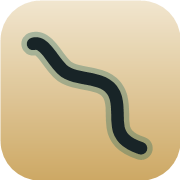
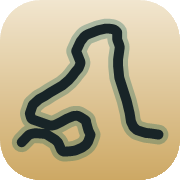
v0.15: Social-Preview-Setup mit echter Worblaufen→Felsenau-Mäander-Identität
- icon.svg + apple-touch-icon.png aus den 79 Original-Vertices der Strecke
  Worblaufen→Felsenaubrücke skaliert (Halbinsel-Loop + zweiter Curl + Tail
  erkennbar) — keine generische Schlaufe mehr.
- og-image.png (1200×630): warmes Paper, "Los la. Langsam. Langsam." links,
  Mäander rechts mit türkisem Schatten.
- Open-Graph + Twitter-Card-Meta für Signal/WhatsApp/iMessage/Discord-Previews.
- canonical + og:url auf https://aarezyt.ch/, og:locale=de_CH.
- Aare-Guru-App-Identifier auf ch.aarezyt.web, Version 0.15.
- apple-mobile-web-app-title und Page-Title auf AareZyt umgestellt.
- H1 "Los la. Langsam. Langsam.", Note "Zyt zum los la." und Footer
  "Bärner Langsamkeit: Feature, nid bug." unverändert.

diff --git a/index.html b/index.html
@@ -3,15 +3,34 @@
 <head>
 <meta charset="UTF-8" />
 <meta name="viewport" content="width=device-width, initial-scale=1.0" />
-<title>Aare Böötle</title>
+<title>AareZyt – Aare Böötle</title>
+<link rel="canonical" href="https://aarezyt.ch/" />
 <link rel="icon" type="image/svg+xml" href="icon.svg" />
 <link rel="alternate icon" type="image/png" href="apple-touch-icon.png" />
 <link rel="apple-touch-icon" href="apple-touch-icon.png" />
-<meta name="apple-mobile-web-app-title" content="Aare Böötle" />
+<meta name="apple-mobile-web-app-title" content="AareZyt" />
 <meta name="apple-mobile-web-app-capable" content="yes" />
+<meta name="mobile-web-app-capable" content="yes" />
 <meta name="apple-mobile-web-app-status-bar-style" content="default" />
 <meta name="theme-color" content="#c9b37e" />
 <meta name="description" content="Wie lange dauert das Böötle heute? Ein ruhiges Zeitgefühl für die Aare zwischen Thun und Bern." />
+<meta property="og:type" content="website" />
+<meta property="og:site_name" content="AareZyt" />
+<meta property="og:title" content="Los la. Langsam. Langsam." />
+<meta property="og:description" content="Wie lange dauert das Böötle heute? Ein ruhiges Zeitgefühl für die Aare zwischen Thun und Bern." />
+<meta property="og:url" content="https://aarezyt.ch/" />
+<meta property="og:locale" content="de_CH" />
+<meta property="og:image" content="https://aarezyt.ch/og-image.png" />
+<meta property="og:image:secure_url" content="https://aarezyt.ch/og-image.png" />
+<meta property="og:image:type" content="image/png" />
+<meta property="og:image:width" content="1200" />
+<meta property="og:image:height" content="630" />
+<meta property="og:image:alt" content="AareZyt — Mäander der Aare zwischen Worblaufen und Felsenaubrücke." />
+<meta name="twitter:card" content="summary_large_image" />
+<meta name="twitter:title" content="Los la. Langsam. Langsam." />
+<meta name="twitter:description" content="Wie lange dauert das Böötle heute? Ein ruhiges Zeitgefühl für die Aare zwischen Thun und Bern." />
+<meta name="twitter:image" content="https://aarezyt.ch/og-image.png" />
+<meta name="twitter:image:alt" content="AareZyt — Mäander der Aare zwischen Worblaufen und Felsenaubrücke." />
 <style>
 :root {
   --bg:#c9b37e;
@@ -149,7 +168,7 @@ function update(){
 }
 async function loadFlow(){
   try{
-    const url='https://aareguru.existenz.ch/v2018/current?city=bern&app=ch.michaelzwahlen.aare-boeoetle&version=0.14';
+    const url='https://aareguru.existenz.ch/v2018/current?city=bern&app=ch.aarezyt.web&version=0.15';
     const res=await fetch(url, {cache:'no-store'});
     if(!res.ok) throw new Error('API');
     const data=await res.json();